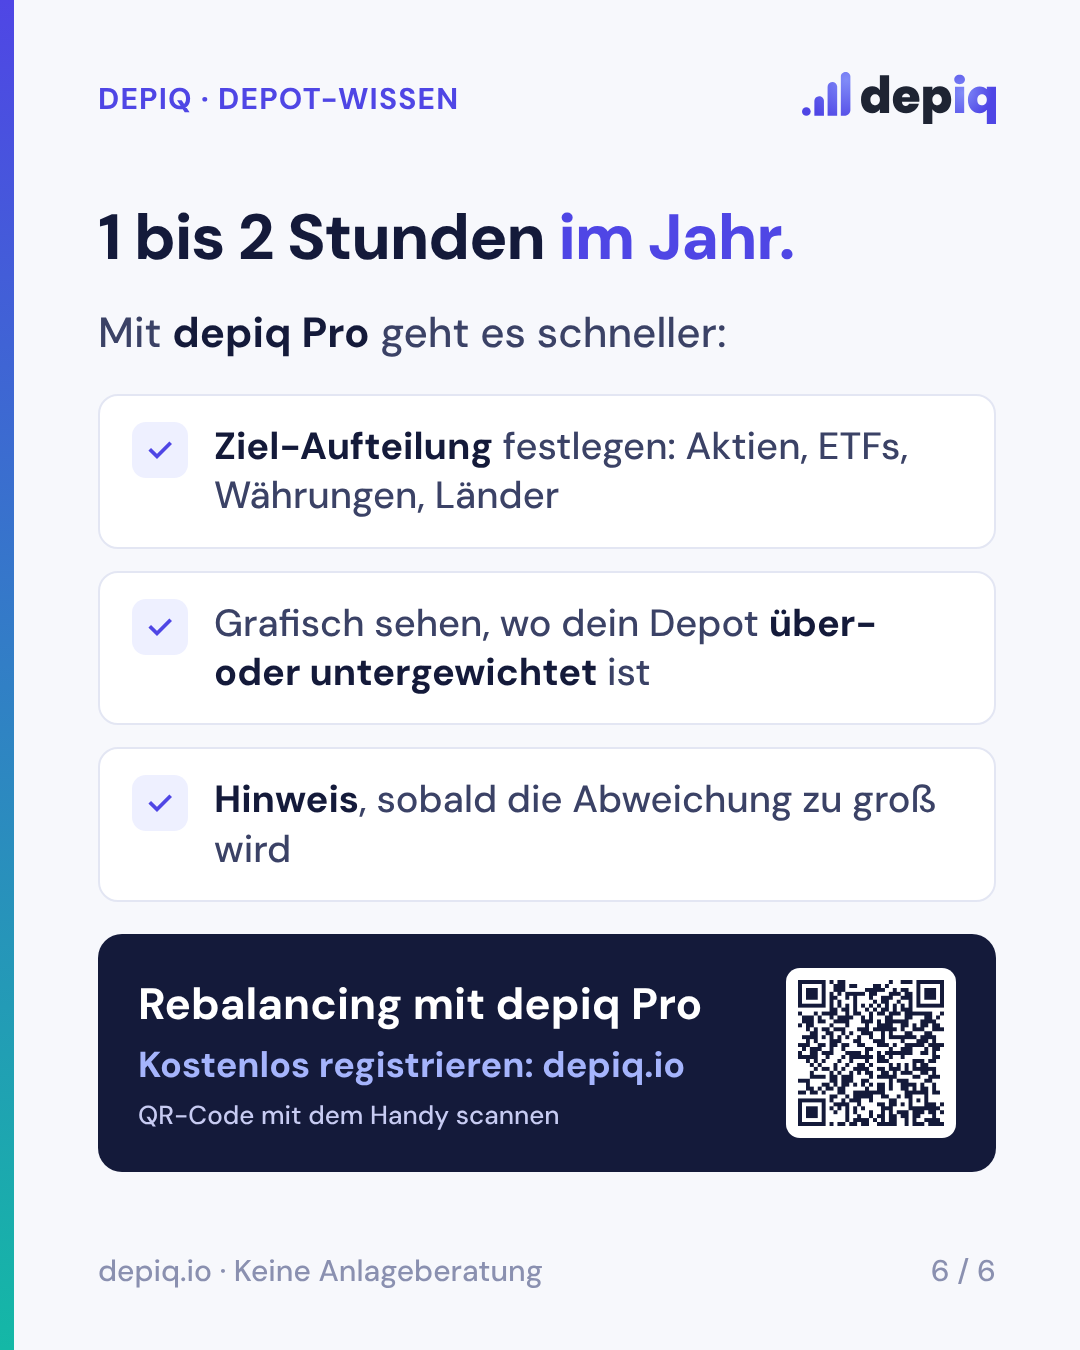
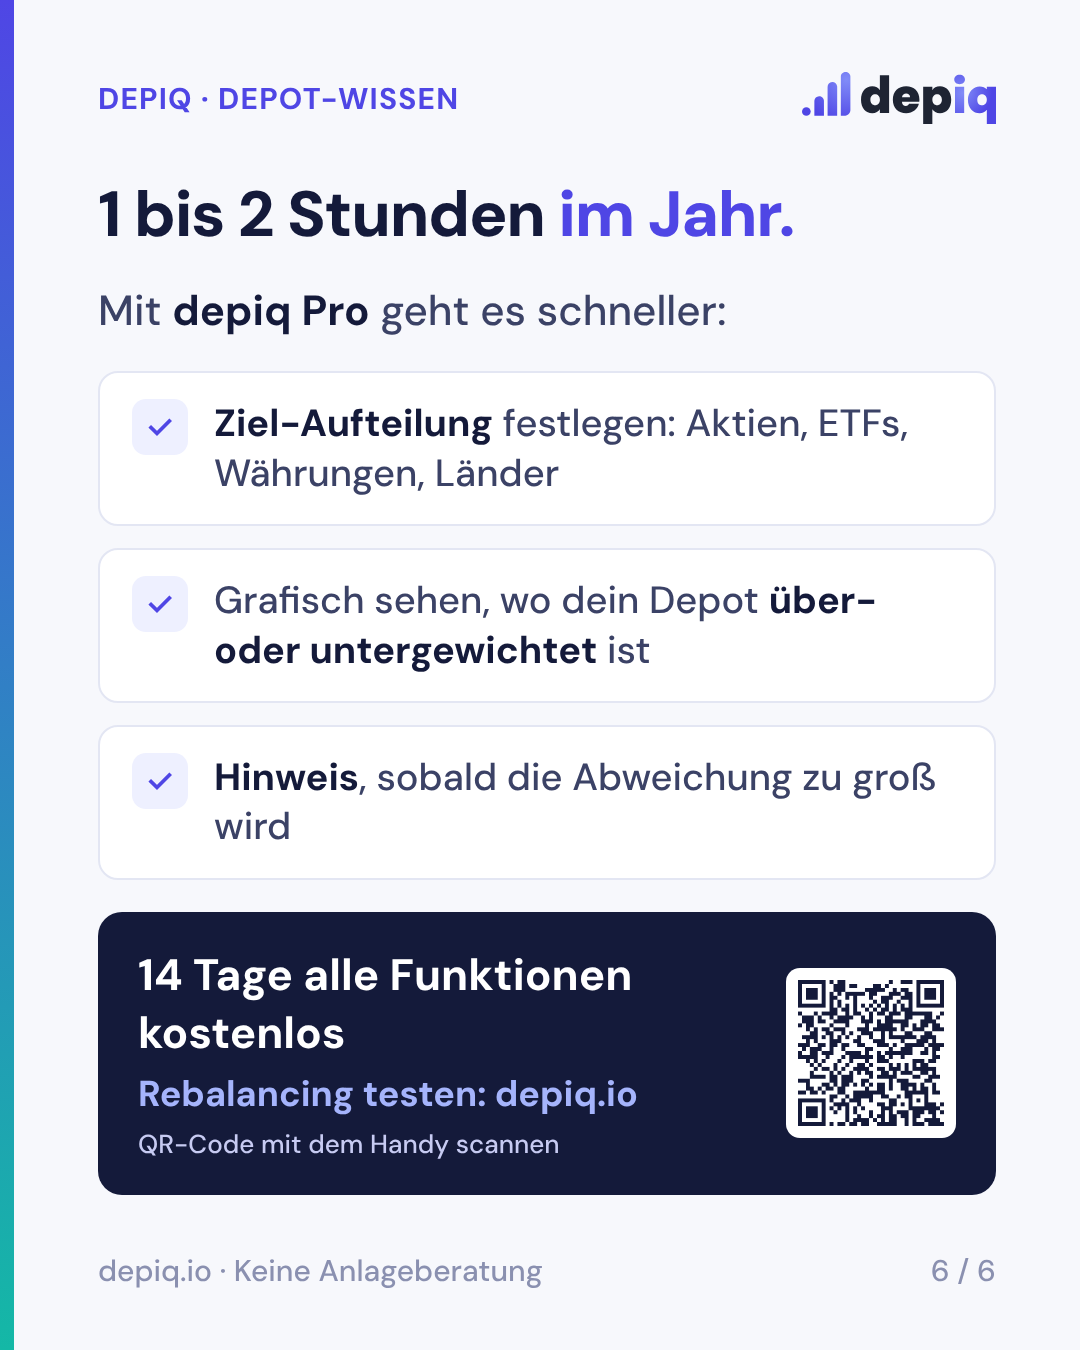
LinkedIn Rebalancing: 14 Tage alle Funktionen kostenlos
Claude-Session: https://claude.ai/code/session_01TCMRwfkoPUXt6cdHJjM9Lg

diff --git a/RICHTLINIEN.md b/RICHTLINIEN.md
@@ -97,6 +97,7 @@ LinkedIn bekommt **eigene Inhalte**, nicht dieselben Beiträge wie Instagram und
 ## 4e. depiq-Funktionen, die genannt werden dürfen (von Jürgen bestätigt)
 Nur diese Funktionen in Beiträgen nennen. Neue erst nach Bestätigung durch Jürgen aufnehmen. Nie behaupten, eine Funktion sei kostenlos, solange der Tarif nicht bestätigt ist; „kostenlos registrieren“ ist immer richtig.
 - **Rebalancing** (bestätigt 01.11.2026): Ziel-Aufteilung je Bereich einstellen (Aktien, ETFs, Währungen, Länder), grafische Anzeige von Über- und Untergewichtung samt erhöhtem Risiko, Hinweis per Benachrichtigung, eigene Seite und Widgets. Wird noch ausgebaut. **Erst ab Tarif Pro** – in jedem Beitrag „Tarif Pro“ dazuschreiben.
+- **Testphase** (bestätigt 01.11.2026): Nach der Registrierung sind **14 Tage alle Funktionen kostenlos** freigeschaltet. Bei Pro-Funktionen so formulieren: „Teil von depiq Pro, 14 Tage kostenlos testen“.
 
 ## 5. Dateien und Namen
 - Reels: `reels/JJJJ-MM-TT_<Tag>_Reel.mp4`, Text `texte/JJJJ-MM-TT_<Tag>_Reel.txt`
